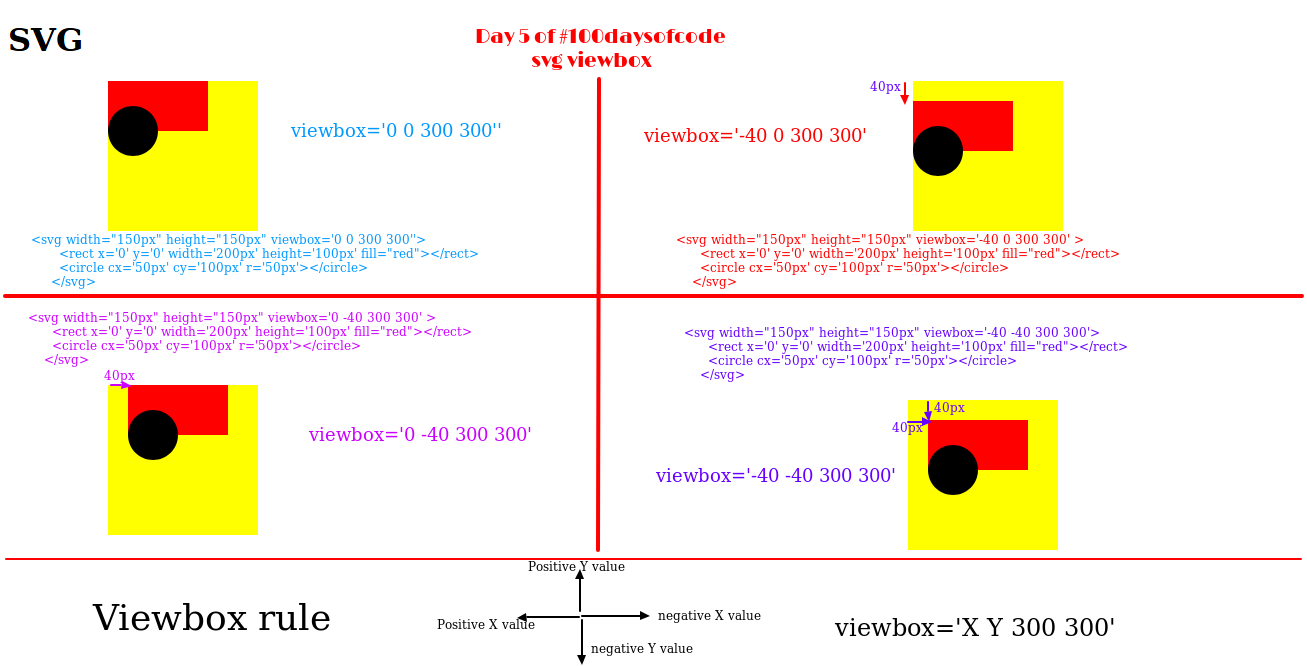
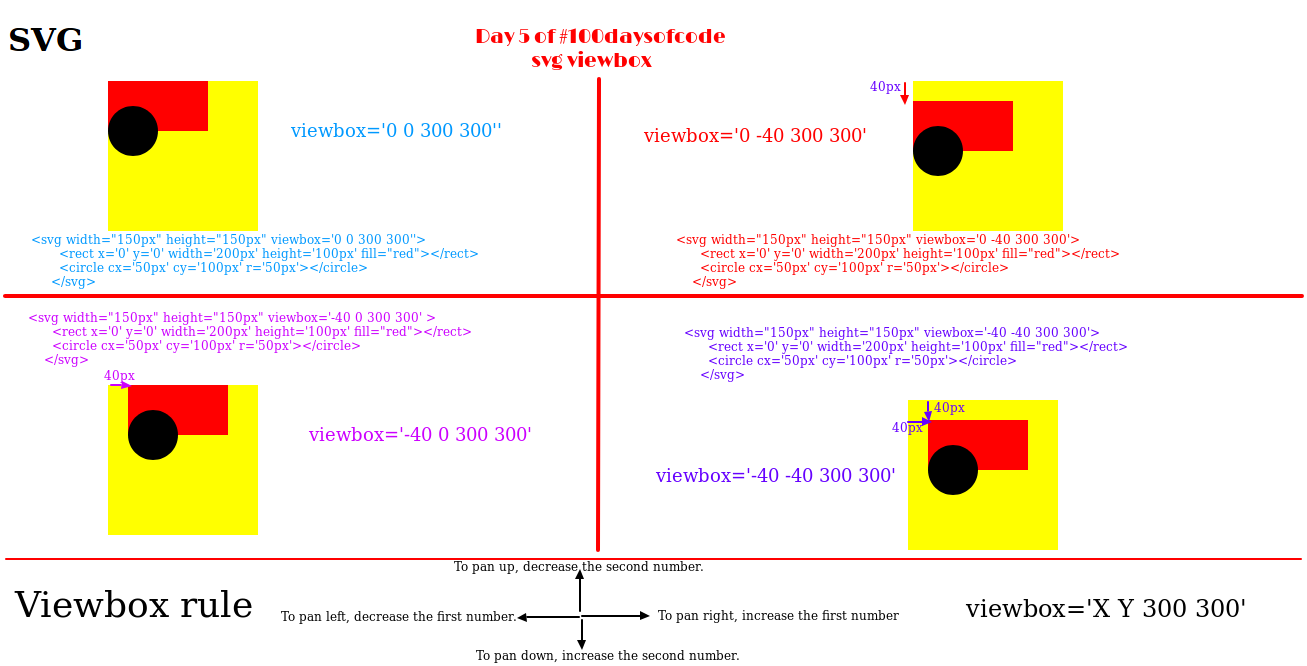
edited the viewbox3 image

diff --git a/100daysR3_7-8-19/SVG.js/README.md b/100daysR3_7-8-19/SVG.js/README.md
@@ -40,7 +40,8 @@ Taking it one after another, let me talk about what it means by position
 1. **Position**:       
 This is determined from the first two numbers. It is sometimes seen as panning. From the code snippet above, the `viewbox` is et to `0 0 0 0`. The first two numbers which is `0 0` determines the position. Lets look at these examples
 ![viewbox](img/viewbox2.png)
-![viewbox](img/viewbox3.png). While the height and width are maintained at 300 by 300, x and y are varied. Hope it is quite clear.
+![viewbox](img/viewbox3.png)
+ While the height and width are maintained at 300 by 300, x and y are varied. Hope it is quite clear.
 
 2. **Dimension**:   
 dasd
